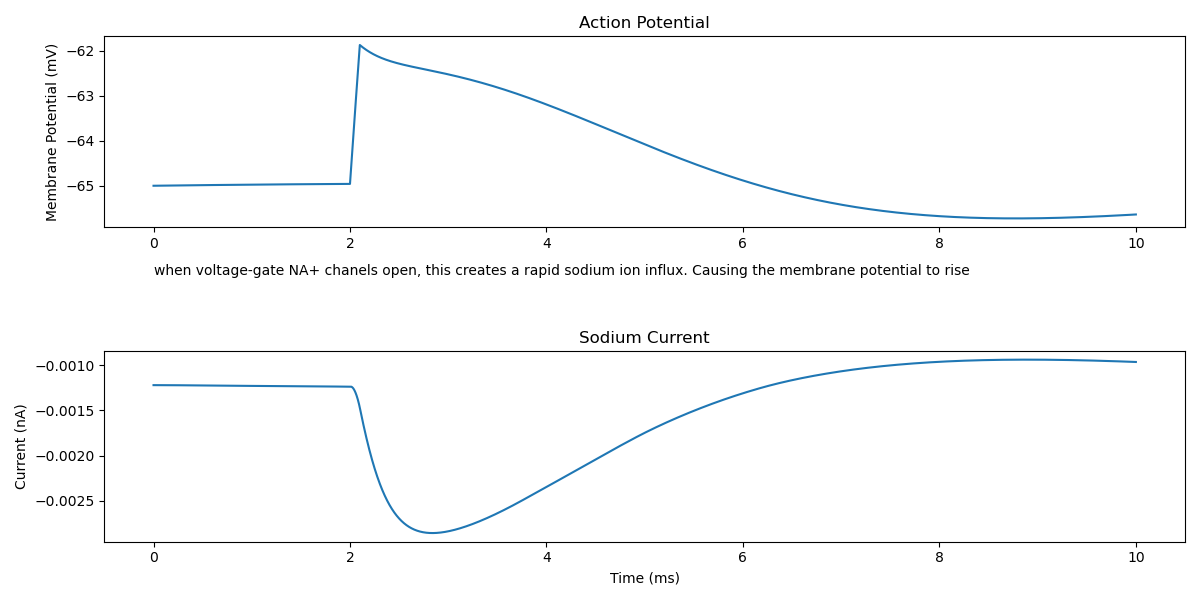
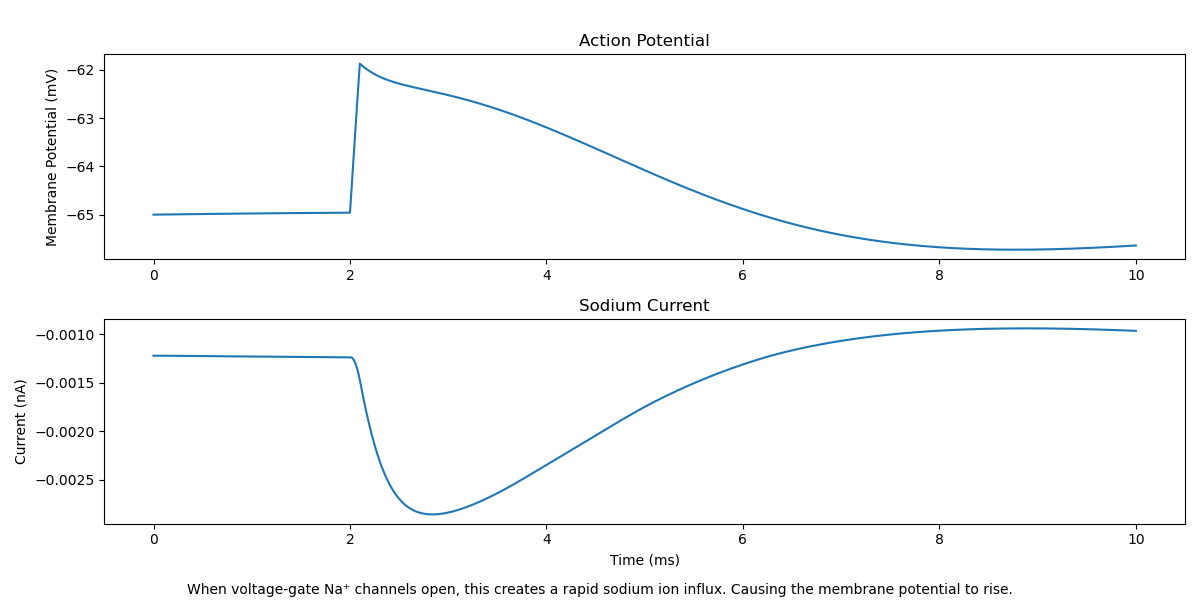
feat: added label to bottom of image generated

diff --git a/neuroscience/lab_reports/lab_report2.py b/neuroscience/lab_reports/lab_report2.py
@@ -46,20 +46,37 @@ plt.plot(times, na_current)
 plt.title("Sodium Current")
 plt.xlabel("Time (ms)")
 plt.ylabel("Current (nA)")
-plt.text(
-    0,
-    0,
-    "when voltage-gate NA+ chanels open, this creates a rapid sodium ion influx. Causing the membrane potential to rise",
+fig = plt.figure(figsize=(12, 6))
+
+ax1 = plt.subplot(2, 1, 1)
+ax1.plot(times, voltage)
+ax1.set_title("Action Potential")
+ax1.set_ylabel("Membrane Potential (mV)")
+
+ax2 = plt.subplot(2, 1, 2)
+ax2.plot(times, na_current)
+ax2.set_title("Sodium Current")
+ax2.set_xlabel("Time (ms)")
+ax2.set_ylabel("Current (nA)")
+
+footer_text = (
+    "When voltage-gate Na⁺ channels open, this creates a rapid sodium ion influx. "
+    "Causing the membrane potential to rise."
+)  # footer to figure is better than plt.text() or whatever it's called
+
+fig.text(
+    0.5,  # x/y coords are normalised
+    0.01,
+    footer_text,
+    ha="center",
+    fontsize=10,
+    wrap=True,
 )
 
-plt.tight_layout()
+plt.tight_layout(rect=[0, 0.03, 1, 0.97])
 
 save_directory = "./lab_reports/lab_2/"
-
-if not os.path.exists(save_directory):
-    os.makedirs(save_directory)
-
-plt.tight_layout()
+os.makedirs(save_directory, exist_ok=True)
 plt.savefig(os.path.join(save_directory, "action_potential.png"))
 plt.show()
 
